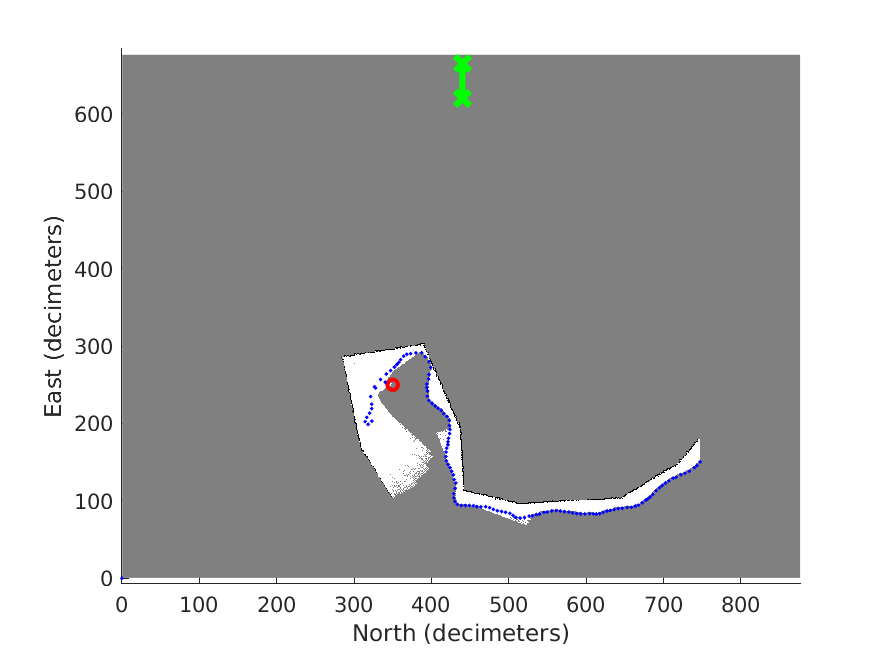
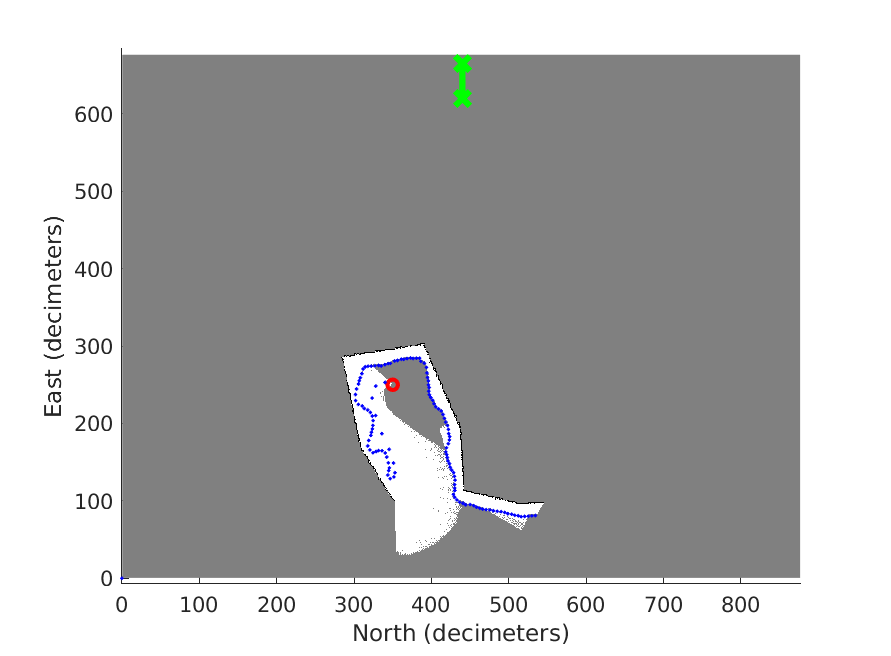
used images

Changed region(s): [[0.3939, 0.5183, 0.7879, 0.8537]]

diff --git a/lab4/lab4.m b/lab4/lab4.m
@@ -47,7 +47,7 @@ function lab4()
         if abs(c) > 5
             y_move = 0;
         else
-            y_move = (((100 - (5*heading_new + 5*c))))^2*0.00001;
+            y_move = (((95 - (5*heading_new + 5*c))))^2*0.00001;
         end
         cur_pos = motion([c; 5*y_move*-1; heading_new], cur_pos);
         
@@ -97,7 +97,6 @@ function lab4()
     ylabel('East (decimeters)')
     axis equal
     saveas(figureX,'final.png')
-    
     close all;
 end
 
